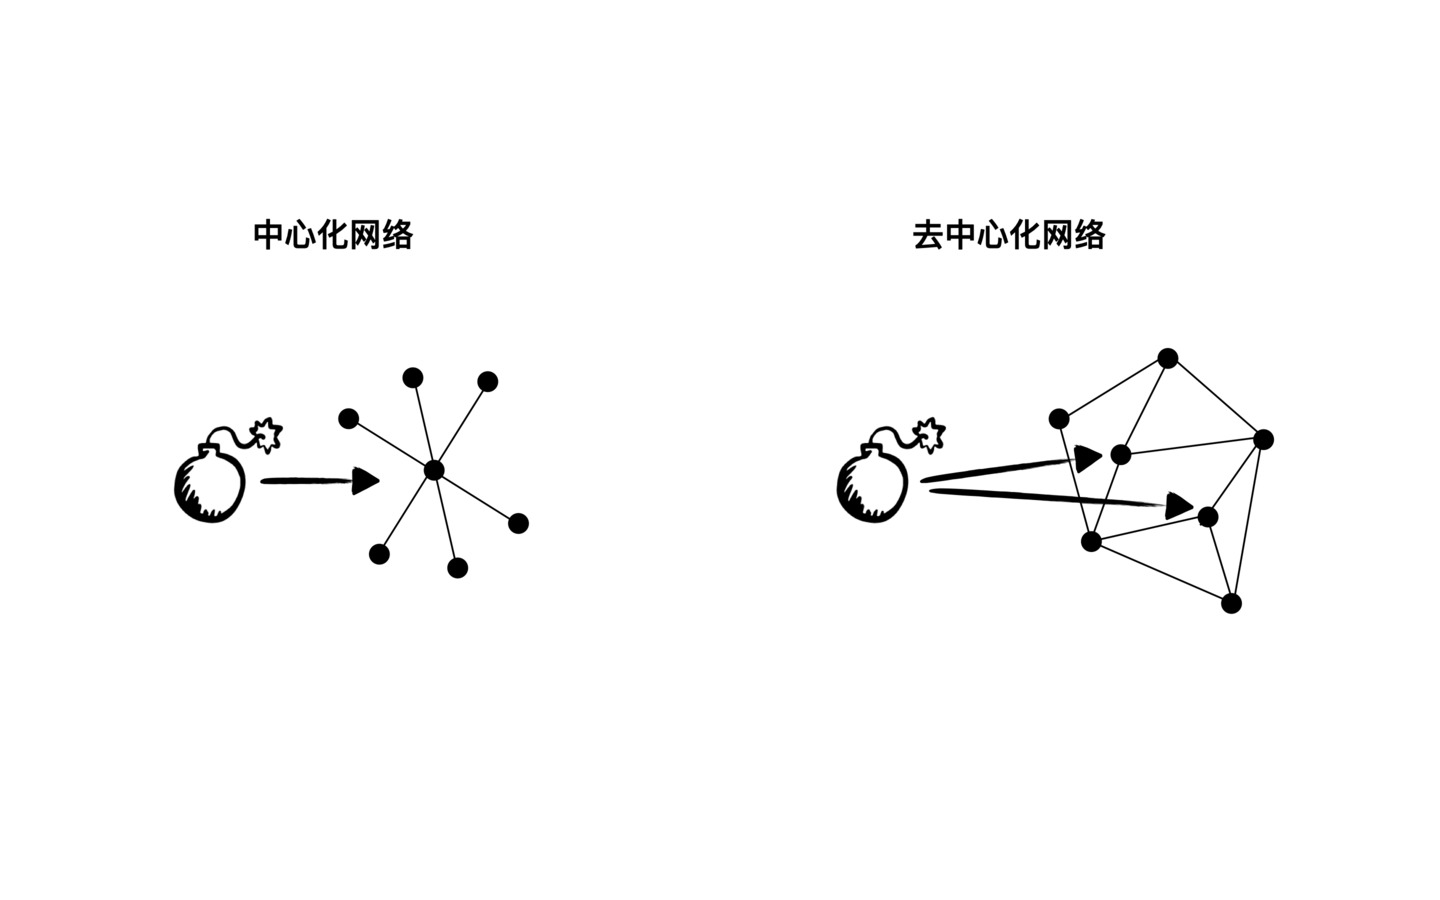
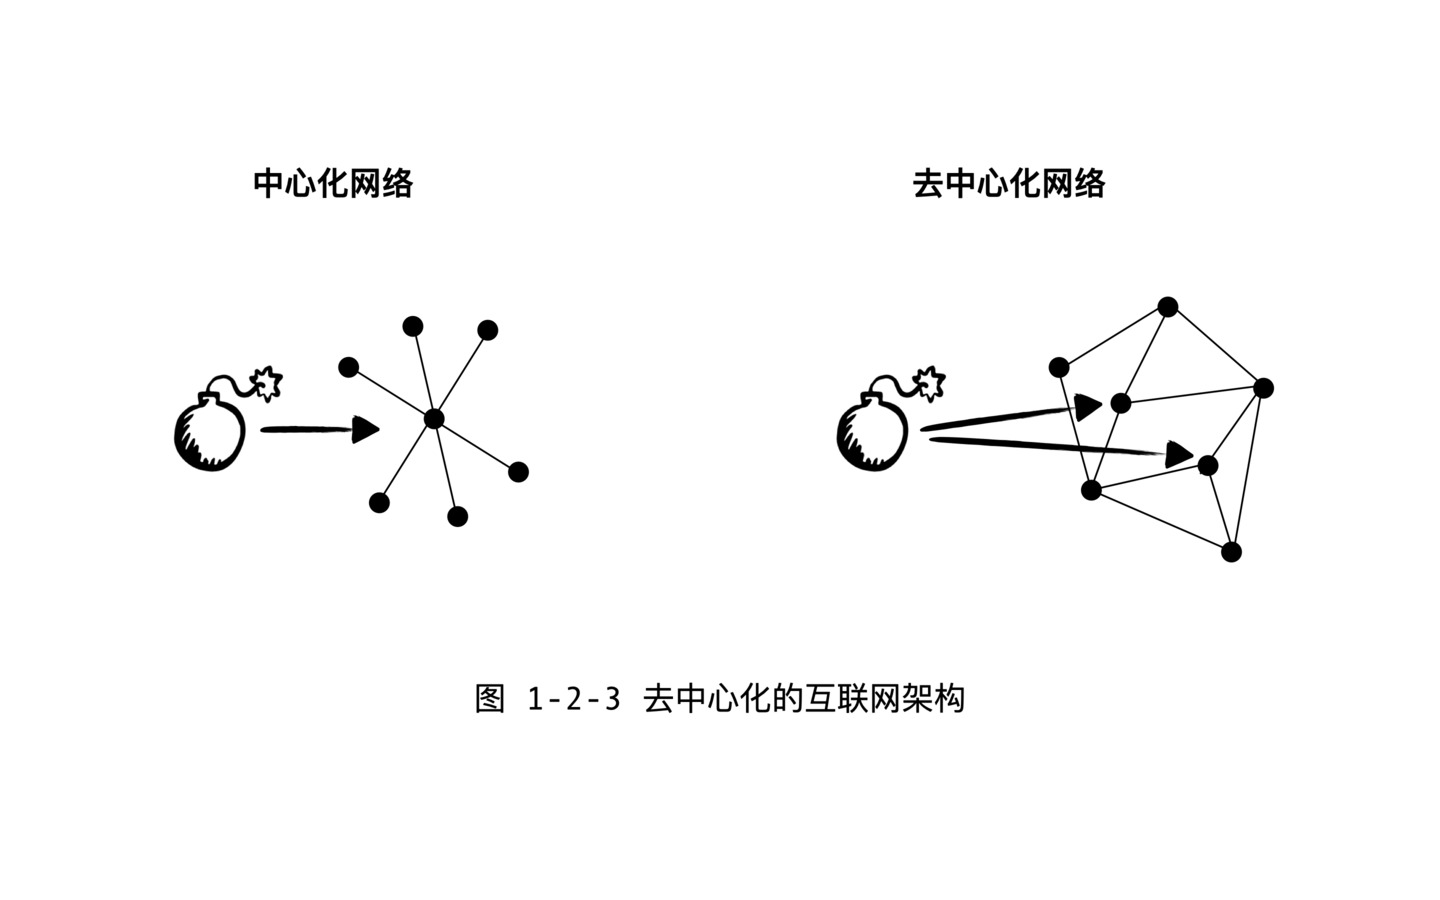
add img title

diff --git a/01-tech/opensource.md b/01-tech/opensource.md
@@ -1,5 +1,3 @@
-## 提问
-
 跟硬件一样，最近几十年，个人能够自由使用的软件也出现了爆炸式的增长。从某种意义来讲，开源软件运动就是软件去中心化的过程，打破了商业软件公司对软件的垄断，让个体都可以自由的去使用软件。没有这种自由，就没有全球范围的人与人之间的信任与合作，互联网也就不会诞生。互联网出现后，密码朋克运动和区块链的热潮，是开源运动的进一步深入，是赋能个体的民权运动。
 
 ## 版权软件

diff --git a/README.md b/README.md
@@ -1,13 +1,1 @@
-《 Web3.0 架构》
-
-## Generate new img
-
-- Screenshot a fullscreen Keynote slide
-- `convert input.png -resize 50% output.jpg`
-
-## Deploy new version
-
-- Edit Text, Add jpg to /imgs
-- run `gitbook serve` imgs folder will be copied to /_book/imgs
-- `mv _book docs`
-- push, and I am ready to go.
+V0.1

diff --git a/wiki/deploy.md b/wiki/deploy.md
@@ -1,0 +1,13 @@
+《 Web3.0 架构》
+
+## Generate new img
+
+- Screenshot a fullscreen Keynote slide
+- `convert input.png -resize 50% output.jpg`
+
+## Deploy new version
+
+- Edit Text, Add jpg to /imgs
+- run `gitbook serve` imgs folder will be copied to /_book/imgs
+- `mv _book docs`
+- push, and I am ready to go.
